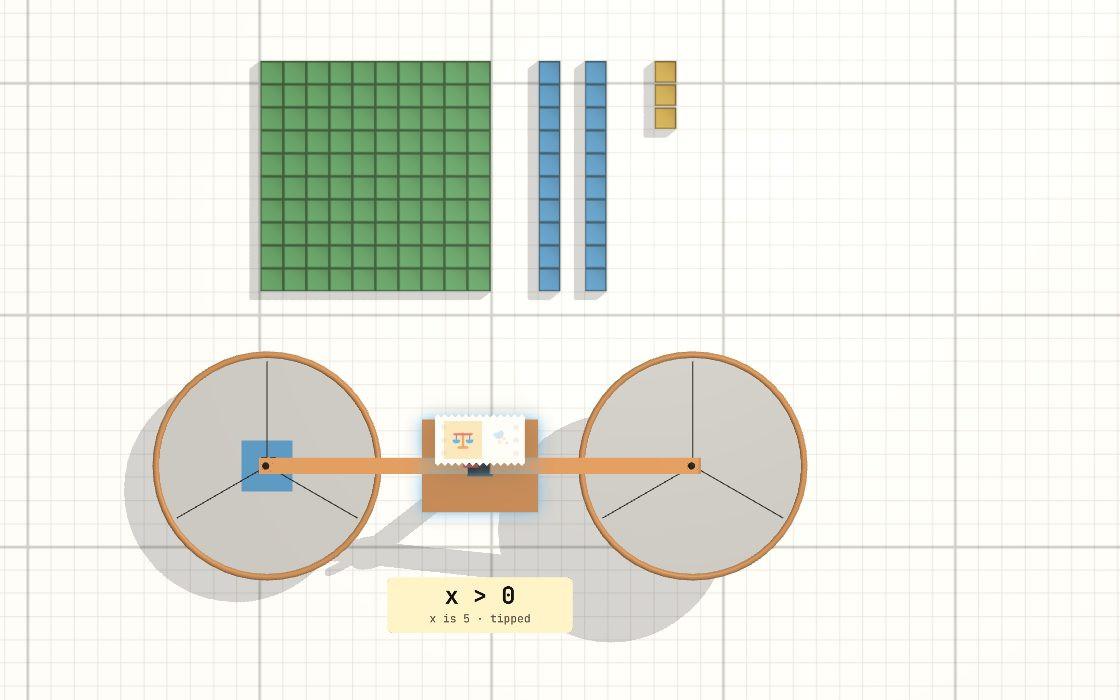
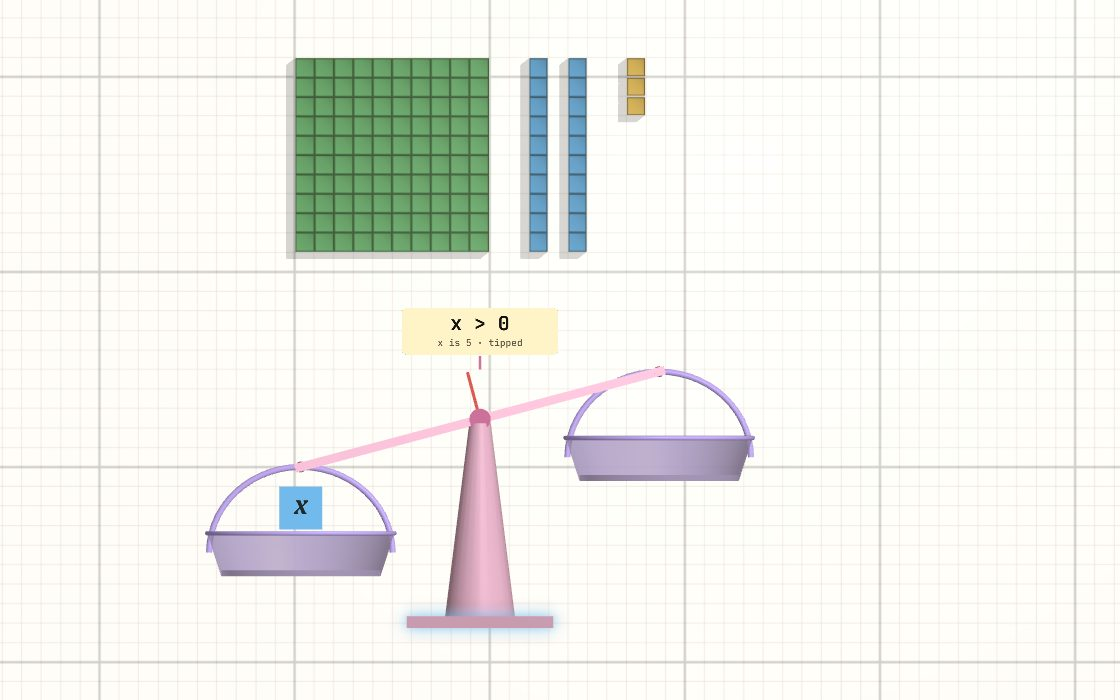
Balance scale made like a classroom bucket balance: light pink flared stand and beam, light purple U-hangers and see-through bowls; in the 2D view it lies on the paper facing the camera, a FRONT view (stand, beam, hangers and bowls side on, what is in each bowl face on, no 3D shadows, its sign above

diff --git a/prep-math/activity/base-blocks/js/scale.js b/prep-math/activity/base-blocks/js/scale.js
@@ -31,6 +31,7 @@
 import { cssVar, toBase } from "./config.js";
 import { footprint } from "./layout.js";
 import { blockBox, colourOf } from "./blocks.js";
+import { store } from "./state.js";
 
 const B = () => window.BABYLON;
 
@@ -53,7 +54,7 @@ const ROOM = 6.4;         // the square inside a pan pieces are laid out in
 const GAP = 0.35;         // between piles of different pieces in a pan
 
 export const SCALE_L = Math.ceil(2 * (ARM + PAN_R));
-export const SCALE_W = 13;
+export const SCALE_W = 18;   // room for the front view (2D) as well, sign and all
 /** How high the top of the scale is — where its balance key is pinned. */
 export const SCALE_TOP = PILLAR_H + 4;
 export const MAX_IN_PAN = 30; // pieces a pan will hold before it says so
@@ -208,7 +209,8 @@ export function panCentre(thing, side) {
   const cx = thing.x + f.l / 2;
   const cz = thing.z + f.w / 2;
   const lx = side === "left" ? -ARM : ARM;
-  const lz = PAN_Z;
+  /* in the flat (front) view a bowl's middle sits up the screen: its height off the foot, less half the rig */
+  const lz = store.flat ? (PILLAR_H + 0.7 - HANG + 1.6) - FRONT_H / 2 : PAN_Z;
   const a = thing.angle || 0;
   const c = Math.cos(a);
   const s = Math.sin(a);
@@ -364,20 +366,24 @@ export function buildScale(ctx, thing) {
   const root = new BJS.TransformNode("sc" + thing.id, scene);
   const id = thing.id;
 
-  const wood = cssVar("--accent-warning", "#f0a868");
-  const ink = cssVar("--ink", "#2a2723");
-  const tray = cssVar("--surface-secondary", "#efe8dc");
+  /* THE CLASSROOM BUCKET BALANCE (the user's picture): a flared stand and a beam in LIGHT PINK, U-shaped
+     hangers and round bowls in LIGHT PURPLE ("use light pink for the arm and maybe light purple for the
+     basket") */
+  const wood = "#f6bfd6";            // the arm, the stand, the foot
+  const ink = "#c46b93";             // the hub, the hooks: a deeper pink
+  const tray = "#d9c8f5";            // the bowls
+  const handle = "#bda6ec";          // the hangers, a shade deeper than the bowls
 
   const tag = (m) => { m.metadata = { itemId: id }; m.parent = root; return m; };
 
   /* The foot the whole thing stands on, and the pillar the beam turns on. */
   const foot = tag(BJS.MeshBuilder.CreateBox("scFoot",
-    { width: 5, depth: 4, height: 0.5 }, scene));
-  foot.position.set(0, 0.25, PAN_Z);
+    { width: 7.5, depth: 4.5, height: 0.6 }, scene));
+  foot.position.set(0, 0.3, PAN_Z);
   foot.material = mat(scene, wood, 0.8);
 
   const pillar = tag(BJS.MeshBuilder.CreateCylinder("scPillar",
-    { diameter: 0.8, height: PILLAR_H, tessellation: 18 }, scene));
+    { diameterTop: 1.1, diameterBottom: 3.6, height: PILLAR_H, tessellation: 24 }, scene));
   pillar.position.set(0, PILLAR_H / 2 + 0.5, PAN_Z);
   pillar.material = mat(scene, wood, 0.9);
 
@@ -428,27 +434,39 @@ export function buildScale(ctx, thing) {
   for (const side of ["left", "right"]) {
     const node = new BJS.TransformNode("scPan-" + side, scene);
     node.parent = root;
-    const top = new BJS.Vector3(0, HANG, 0);
-    const lines = [0, 1, 2].map((i) => {
-      const a = Math.PI / 2 + (i * Math.PI * 2) / 3;
-      return [new BJS.Vector3(Math.cos(a) * PAN_R * 0.94, PAN_T, Math.sin(a) * PAN_R * 0.94), top];
-    });
-    const strings = BJS.MeshBuilder.CreateLineSystem("scStrings", { lines }, scene);
-    strings.parent = node;
-    strings.color = BJS.Color3.FromHexString(norm(ink));
-    strings.isPickable = false;
+    /* the hanger: a U from one side of the bowl's rim, up over the hook, down to the other */
+    const BOWL_H = 2.2;
+    const arc = [];
+    for (let k = 0; k <= 28; k++) {
+      const a = Math.PI * (k / 28);
+      arc.push(new BJS.Vector3(-Math.cos(a) * PAN_R * 0.98, BOWL_H * 0.55 + Math.sin(a) * (HANG - BOWL_H * 0.55), 0));
+    }
+    const hanger = tag(BJS.MeshBuilder.CreateTube("scHanger", { path: arc, radius: 0.16, tessellation: 10 }, scene));
+    hanger.parent = node;
+    hanger.material = mat(scene, handle);
+    hanger.isPickable = false;
+    /* the bowl: a flat floor and a wall that flares out to the rim, seen through a little */
     const dish = tag(BJS.MeshBuilder.CreateCylinder("scDish",
-      { diameter: PAN_R * 2, height: PAN_T, tessellation: 48 }, scene));
+      { diameter: PAN_R * 1.7, height: PAN_T, tessellation: 48 }, scene));
     dish.parent = node;
     dish.position.y = PAN_T / 2;
     dish.material = mat(scene, tray);
     dish.metadata.dish = { thingId: id, side };
     dish.receiveShadows = true;
+    const wall = tag(BJS.MeshBuilder.CreateCylinder("scWall",
+      { diameterTop: PAN_R * 2, diameterBottom: PAN_R * 1.7, height: BOWL_H, tessellation: 48, cap: BJS.Mesh.NO_CAP, sideOrientation: BJS.Mesh.DOUBLESIDE }, scene));
+    wall.parent = node;
+    wall.position.y = BOWL_H / 2;
+    const glass = mat(scene, tray).clone("scGlass");
+    glass.alpha = 0.55;
+    glass.backFaceCulling = false;
+    wall.material = glass;
+    wall.metadata.dish = { thingId: id, side };
     const rim = tag(BJS.MeshBuilder.CreateTorus("scRim",
-      { diameter: PAN_R * 2, thickness: 0.28, tessellation: 48 }, scene));
+      { diameter: PAN_R * 2, thickness: 0.22, tessellation: 48 }, scene));
     rim.parent = node;
-    rim.position.y = PAN_T;
-    rim.material = mat(scene, wood, 0.85);
+    rim.position.y = BOWL_H;
+    rim.material = mat(scene, handle);
     rim.metadata.dish = { thingId: id, side };
     ctx.shadows.addShadowCaster(dish);
     /* What is in the pan hangs off here, lifted to the dish's top. */
@@ -466,7 +484,7 @@ export function buildScale(ctx, thing) {
   sign.sheet.metadata = { itemId: id };
 
   const parts = {
-    root, slab: foot, face: null, pivot, beam, pans,
+    root, slab: foot, face: null, pivot, beam, pans, flat: null, shadows: ctx.shadows,
     sign: sign.sheet, signTex: sign.tex, tex: sign.tex,
     tilt: 0, goal: 0, vel: 0, loadKey: "", signKey: "",
   };
@@ -506,12 +524,47 @@ function applyTilt(parts) {
   parts.pans.right.node.position.set(ARM * c, y0 + ARM * s - HANG, PAN_Z);
 }
 
+/* THE FRONT VIEW IN 2D ("The two should be a front view not a top view"): in the flat view the camera
+   looks straight down, so the rig is laid on the paper on its back (a quarter turn about x, its front
+   facing up) and you see what you would see standing in front of it: the stand, the beam, the hangers and
+   the bowls side on, with what is in each bowl seen face on. Its height runs up the screen, centred on its
+   cell. In the solid view it stands up as before. */
+const FRONT_H = PILLAR_H + 6.5;        // how tall it is in the front view, foot to the top of the sign over it
 export function placeScale(parts, thing) {
   const f = footprint(thing);
+  const flat = !!store.flat;
   parts.root.position.x = thing.x + f.l / 2;
-  parts.root.position.y = 0;
-  parts.root.position.z = thing.z + f.w / 2;
   parts.root.rotation.y = thing.angle || 0;
+  if (flat) {
+    parts.root.rotation.x = Math.PI / 2;
+    parts.root.position.y = PAN_R + PAN_Z + 0.6;              // the bowls' depth stays above the paper
+    parts.root.position.z = thing.z + f.w / 2 - FRONT_H / 2;  // its height centred on its cell
+  } else {
+    parts.root.rotation.x = 0;
+    parts.root.position.y = 0;
+    parts.root.position.z = thing.z + f.w / 2;
+  }
+  if (parts.flat !== flat) {
+    parts.flat = flat;
+    /* a front view lying on the paper would throw a 3D shadow across it: none in the flat view */
+    if (parts.shadows) {
+      for (const m of parts.root.getChildMeshes()) {
+        if (flat) parts.shadows.removeShadowCaster(m);
+        else if (!/Hanger|Wall|Rim|Sign/.test(m.name)) parts.shadows.addShadowCaster(m);
+      }
+    }
+    /* what is in a bowl is laid out on the bowl's floor: turned to face the camera in the front view */
+    for (const side of ["left", "right"]) {
+      const load = parts.pans[side].load;
+      load.rotation.x = flat ? -Math.PI / 2 : 0;
+      load.position.y = flat ? PAN_T + ROOM / 2 : PAN_T;
+    }
+    /* the sign stands over the scale, facing the camera (the strip of keys goes under the foot) */
+    if (parts.sign) {
+      parts.sign.rotation.x = flat ? -Math.PI / 2 : 0;
+      parts.sign.position.set(0, flat ? PILLAR_H + 5.2 : 0.02, flat ? PAN_Z : SIGN_Z);
+    }
+  }
 }
 
 /**
@@ -577,7 +630,7 @@ function fillPan(ctx, thing, parts, side, base) {
     mesh.position.set(at.cx, at.cy, at.cz);
     mesh.metadata = { pan: { thingId: thing.id, side, index: at.index } };
     mesh.receiveShadows = true;
-    ctx.shadows.addShadowCaster(mesh);
+    if (!store.flat) ctx.shadows.addShadowCaster(mesh);   // no 3D shadow under the front view
     pan.pieces.push(mesh);
   }
 }

diff --git a/prep-math/activity/base-blocks/js/scalebar.js b/prep-math/activity/base-blocks/js/scalebar.js
@@ -19,7 +19,7 @@ import { scales, weigh, SCALE_TOP } from "./scale.js";
 
 const B = () => window.BABYLON;
 
-export function createScaleBar(ctx, stage, { onBalance = () => {}, onEmpty = () => {} } = {}) {
+export function createScaleBar(ctx, stage, { onBalance = () => {}, onEmpty = () => {}, dock = null } = {}) {
   const { scene, camera } = ctx;
   const bars = new Map(); // scale id → element
 
@@ -40,13 +40,17 @@ export function createScaleBar(ctx, stage, { onBalance = () => {}, onEmpty = () 
     </div>`;
     /* A press on the key is not a press on the paper under it. */
     bar.addEventListener("pointerdown", (e) => e.stopPropagation());
-    bar.addEventListener("click", (e) => {
-      const key = e.target.closest("[data-act]");
-      const thing = store.things.find((t) => t.id === id);
-      if (!key || key.disabled || !thing) return;
-      if (key.dataset.act === "balance") onBalance(thing);
-      else onEmpty(thing);
-    });
+    for (const key of bar.querySelectorAll("[data-act]")) {
+      key.addEventListener("pointerdown", (e) => e.stopPropagation());
+      key.addEventListener("click", () => {
+        const thing = store.things.find((t) => t.id === id);
+        if (key.disabled || !thing) return;
+        if (key.dataset.act === "balance") onBalance(thing);
+        else onEmpty(thing);
+      });
+    }
+    bar.__keys = [...bar.querySelectorAll("[data-act]")];
+    bar.__paper = bar.querySelector(".bb-scalebar__paper");
     stage.appendChild(bar);
     return bar;
   }
@@ -65,22 +69,36 @@ export function createScaleBar(ctx, stage, { onBalance = () => {}, onEmpty = () 
     };
   }
 
-  /* Over the top of the pillar, clear of the needle. */
+  /* NEVER ON THE SCALE ("Icons should not appear on blocks", "put all the canvas icons for an item in the
+     horizontal receipt"): the keys stand in a little receipt UNDER the scale while it lies on the paper,
+     and when the scale is the thing in hand they move into its strip (blockbar.js) with turn and lift. */
   function place() {
     const rect = stage.getBoundingClientRect();
+    const only = store.selection.size === 1 ? [...store.selection][0] : null;
     for (const [id, bar] of bars) {
       const t = store.things.find((s) => s.id === id);
       if (!t) continue;
+      const inHand = dock && only === id;
+      if (inHand) {
+        if (bar.__keys[0].parentElement !== dock) bar.__keys.slice().reverse().forEach((k) => { k.classList.add("is-docked"); dock.prepend(k); });
+        bar.hidden = true;
+        continue;
+      }
+      if (bar.__keys[0].parentElement !== bar.__paper) bar.__keys.forEach((k) => { k.classList.remove("is-docked"); bar.__paper.appendChild(k); });
       const f = footprint(t);
-      const p = project(t.x + f.l / 2, SCALE_TOP, t.z + f.w / 2 + 1);
-      const off = !isFinite(p.x) || p.z < 0 || p.z > 1
-        || p.x < -40 || p.y < -40 || p.x > rect.width + 40 || p.y > rect.height + 40;
-      bar.style.visibility = off ? "hidden" : "";
+      let left = Infinity, right = -Infinity, bottom = -Infinity, behind = false;
+      for (const x of [t.x, t.x + f.l]) for (const z of [t.z, t.z + f.w]) {
+        const p = project(x, 0, z);
+        if (!isFinite(p.x) || p.z < 0 || p.z > 1) behind = true;
+        left = Math.min(left, p.x); right = Math.max(right, p.x); bottom = Math.max(bottom, p.y);
+      }
+      const off = behind || right < -40 || left > rect.width + 40 || bottom < -40 || bottom > rect.height + 80;
+      bar.hidden = off;
       if (off) continue;
       const w = bar.offsetWidth || 90;
       const h = bar.offsetHeight || 40;
-      const x = Math.max(8, Math.min(rect.width - w - 8, p.x - w / 2));
-      const y = Math.max(8, Math.min(rect.height - h - 8, p.y - h));
+      const x = Math.max(8, Math.min(rect.width - w - 8, (left + right) / 2 - w / 2));
+      const y = Math.max(8, Math.min(rect.height - h - 8, bottom + 12));
       bar.style.transform = `translate(${Math.round(x)}px, ${Math.round(y)}px)`;
     }
   }
@@ -97,9 +115,10 @@ export function createScaleBar(ctx, stage, { onBalance = () => {}, onEmpty = () 
       const w = weigh(t, store.xValue);
       const loaded = t.left.length + t.right.length > 0;
       bar.classList.toggle("is-level", w.level);
-      const bal = bar.querySelector('[data-act="balance"]');
+      const [bal, empty] = bar.__keys;
       bal.setAttribute("aria-pressed", String(w.level));
-      bar.querySelector('[data-act="empty"]').disabled = !loaded;
+      bal.classList.toggle("is-level", w.level);
+      empty.disabled = !loaded;
     }
     place();
   }

diff --git a/prep-math/activity/base-blocks/style.css b/prep-math/activity/base-blocks/style.css
@@ -1882,3 +1882,15 @@ body.bb-locked { overflow: hidden; }
 .bb-blockbar button, .bb-blockbar .bb-turn.is-docked { border: 0 !important; box-shadow: none !important; outline-color: transparent; }
 .bb-trade.is-docked .bb-trade__go { background: transparent !important; box-shadow: none !important; border: 0 !important; padding: 0; width: auto; height: auto; color: var(--ink); }
 .bb-trade.is-docked .bb-trade__go svg { width: 18px; height: 18px; }
+
+/* the scale's keys, docked in the strip of the thing in hand: plain icons like the rest */
+.bb-scalebar__key.is-docked { display: inline-flex; align-items: center; justify-content: center; width: 32px; height: 32px; padding: 0; border: 0 !important; background: transparent !important; box-shadow: none !important; color: var(--ink); }
+.bb-scalebar__key.is-docked em { display: none; }
+.bb-scalebar__key.is-docked svg { width: 18px; height: 18px; }
+.bb-scalebar__key.is-docked:hover { background: var(--surface-secondary) !important; }
+.bb-scalebar__key.is-docked:disabled { opacity: 0.3; }
+.bb-scalebar__key.is-docked.is-level { outline: 2px solid var(--accent-success); outline-offset: -2px; }
+.bb-scalebar[hidden] { display: none; }
+/* the scale's keys in their own receipt under the scale: plain icons too, no coloured fill */
+.bb-scalebar__key, .bb-scalebar__key--balance { background: transparent !important; box-shadow: none !important; border: 0 !important; }
+.bb-scalebar__key:hover { background: var(--surface-secondary) !important; }

diff --git a/prep-math/activity/base-blocks/js/blockbar.js b/prep-math/activity/base-blocks/js/blockbar.js
@@ -61,7 +61,8 @@ export function createBlockBar(ctx, view, stage, { onAct = () => {}, enabled = (
      down, and the strip vanishes from under the finger that was aiming at it. */
   bar.addEventListener("pointerdown", (e) => e.stopPropagation());
   bar.addEventListener("click", (e) => {
-    const key = e.target.closest("[data-act]");
+    /* only the block keys are this strip's own: the scale's keys and the handles docked here answer for themselves */
+    const key = e.target.closest(".bb-blockbar__key[data-act]");
     if (!key || key.disabled) return;
     onAct(key.dataset.act);
   });
@@ -131,7 +132,7 @@ export function createBlockBar(ctx, view, stage, { onAct = () => {}, enabled = (
     bar.hidden = !on;
     if (!on) return;
     const hasBlock = blocks.length > 0;
-    for (const key of bar.querySelectorAll("[data-act]")) {
+    for (const key of bar.querySelectorAll(".bb-blockbar__key[data-act]")) {
       key.hidden = !hasBlock;
       key.disabled = !hasBlock || !enabled(key.dataset.act);
     }

diff --git a/prep-math/activity/base-blocks/js/workspace.js b/prep-math/activity/base-blocks/js/workspace.js
@@ -943,7 +943,7 @@ async function bootCanvas() {
     noteEditor = createNoteEditor(ctx, view, stage,
       { onInput: () => emit(), onCommit: afterNote });
     const turn = createTurnHandle(ctx, view, stage, () => emit(), { dock: blockBar.dock });
-    scaleBar = createScaleBar(ctx, stage, { onBalance: balanceScale, onEmpty: emptyScale });
+    scaleBar = createScaleBar(ctx, stage, { onBalance: balanceScale, onEmpty: emptyScale, dock: blockBar.dock });
     subscribe((s) => {
       view.sync(s);
       trade.refresh();
